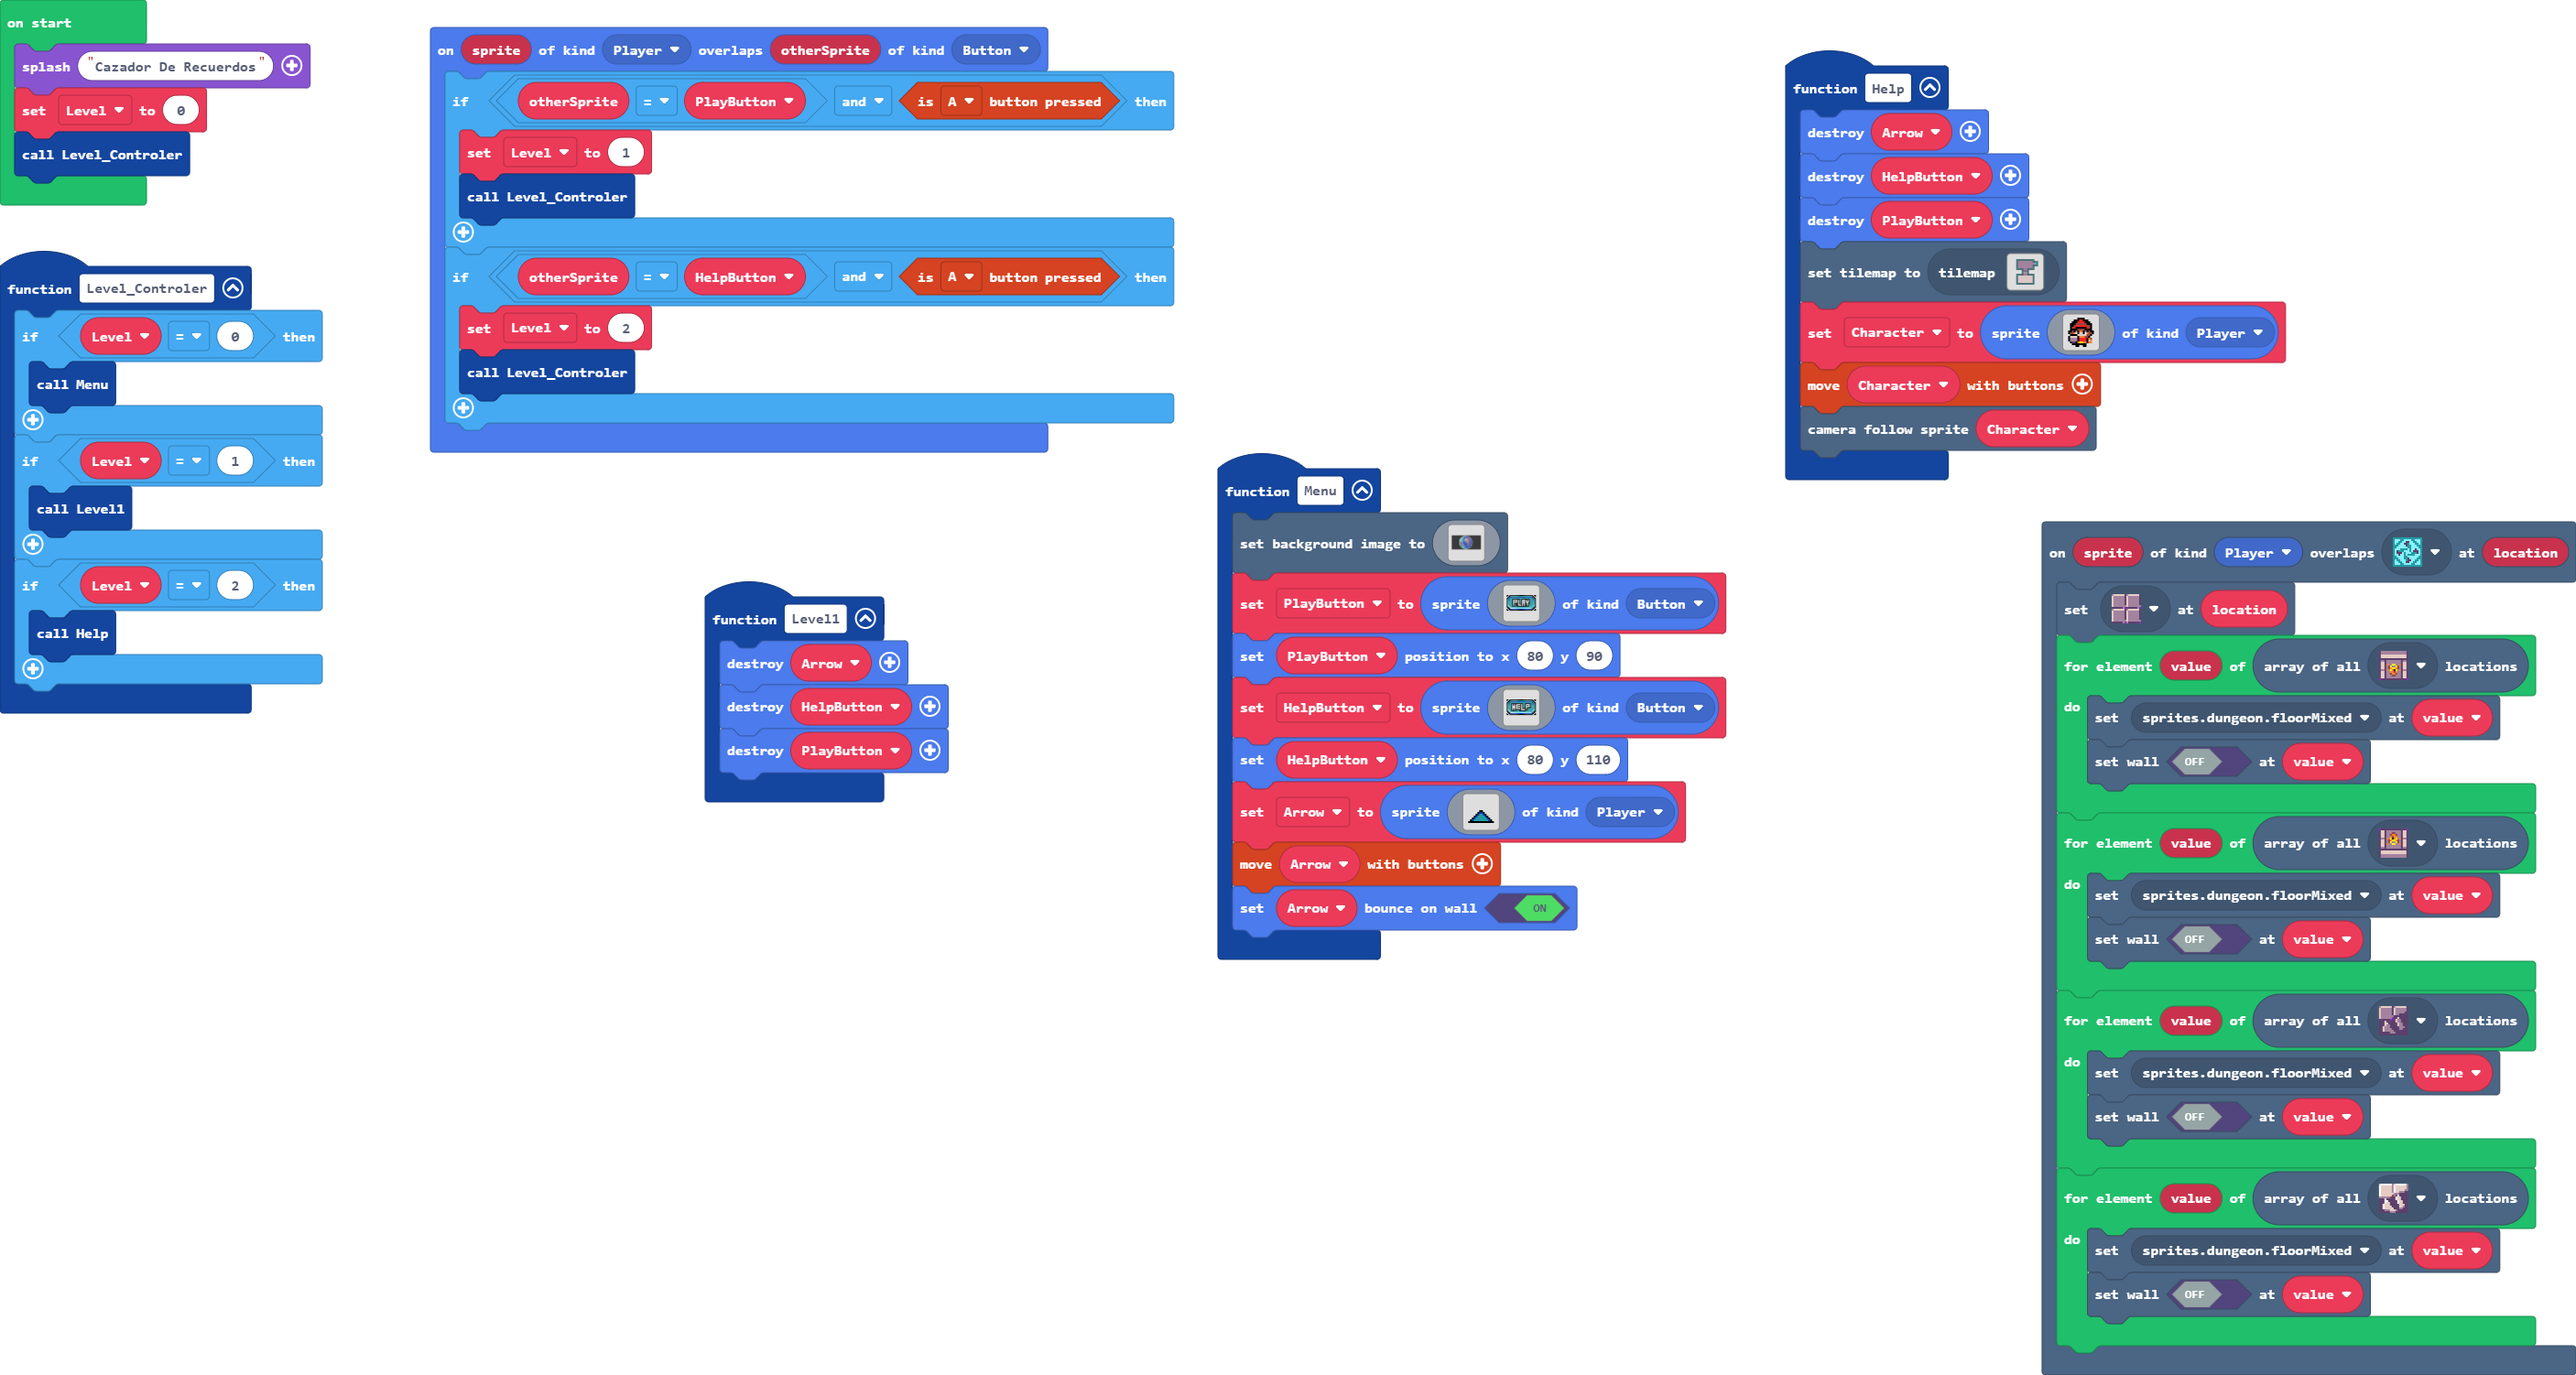
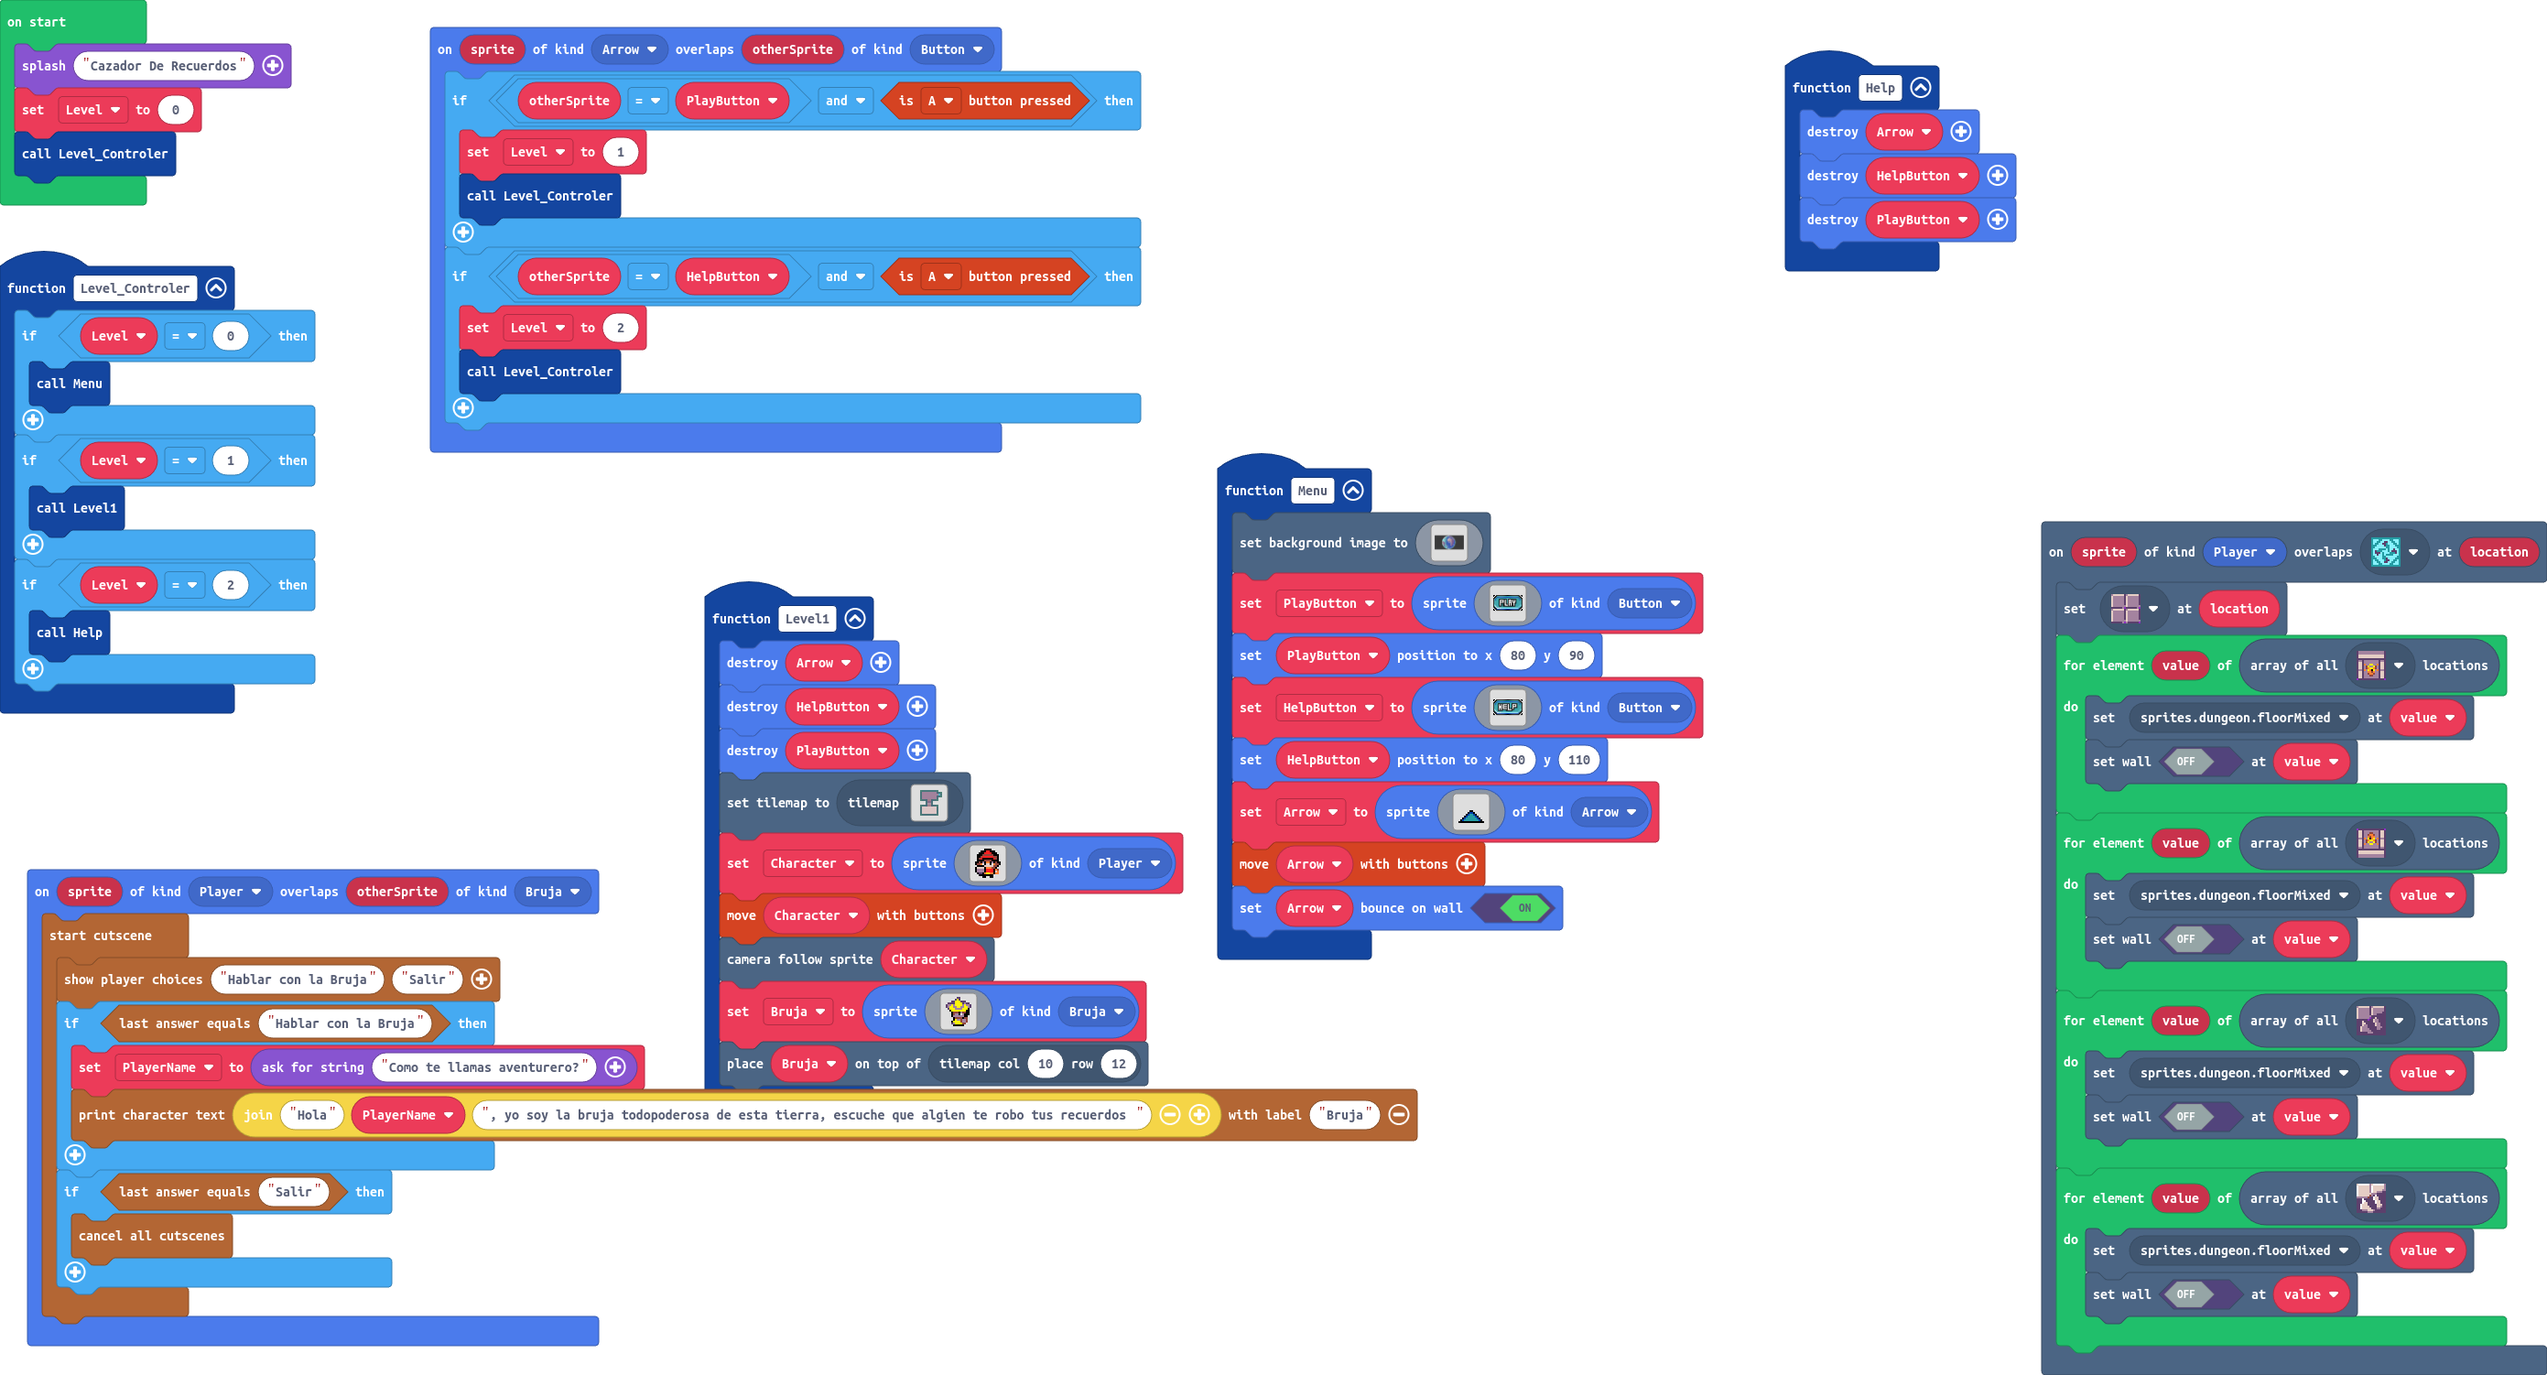
commit

diff --git a/main.ts b/main.ts
@@ -1,6 +1,20 @@
 namespace SpriteKind {
     export const Button = SpriteKind.create()
+    export const Arrow = SpriteKind.create()
+    export const Bruja = SpriteKind.create()
 }
+sprites.onOverlap(SpriteKind.Player, SpriteKind.Bruja, function (sprite, otherSprite) {
+    story.startCutscene(function () {
+        story.showPlayerChoices("Hablar con la Bruja", "Salir")
+        if (story.checkLastAnswer("Hablar con la Bruja")) {
+            PlayerName = game.askForString("Como te llamas aventurero?")
+            story.printCharacterText("Hola" + PlayerName + ", yo soy la bruja todopoderosa de esta tierra, escuche que algien te robo tus recuerdos ", "Bruja")
+        }
+        if (story.checkLastAnswer("Salir")) {
+            story.cancelAllCutscenes()
+        }
+    })
+})
 function Level_Controler () {
     if (Level == 0) {
         Menu()
@@ -13,11 +27,6 @@ function Level_Controler () {
     }
 }
 function Level1 () {
-    sprites.destroy(Arrow)
-    sprites.destroy(HelpButton)
-    sprites.destroy(PlayButton)
-}
-function Help () {
     sprites.destroy(Arrow)
     sprites.destroy(HelpButton)
     sprites.destroy(PlayButton)
@@ -42,8 +51,27 @@ function Help () {
         `, SpriteKind.Player)
     controller.moveSprite(Character)
     scene.cameraFollowSprite(Character)
+    Bruja = sprites.create(img`
+        . . . . . . . c c . . . . . . . 
+        . . . . . . c 5 c . . . . . . . 
+        . . . . c c 5 5 5 c c c . . . . 
+        . . c c c c 5 5 5 5 c b c c . . 
+        . c b b 5 b 5 5 5 5 b 5 b b c . 
+        . c b 5 5 b b 5 5 b b 5 5 b c . 
+        . . c 5 5 5 b b b b 5 5 5 f . . 
+        . . . f 5 5 5 5 5 5 5 5 f f . . 
+        . . . . f e e e f b e e f f . . 
+        . . . . f e b b f 1 b f f f . . 
+        . . . . f b b b b b b f f . . . 
+        . . . . . f e e e e f e e . . . 
+        . . . . . f 5 b b e b b e . . . 
+        . . . . f 5 5 5 5 e b b e . . . 
+        . . . . c b 5 5 5 5 e e . . . . 
+        . . . . . f f f f f f . . . . . 
+        `, SpriteKind.Bruja)
+    tiles.placeOnTile(Bruja, tiles.getTileLocation(10, 12))
 }
-sprites.onOverlap(SpriteKind.Player, SpriteKind.Button, function (sprite, otherSprite) {
+sprites.onOverlap(SpriteKind.Arrow, SpriteKind.Button, function (sprite, otherSprite) {
     if (otherSprite == PlayButton && controller.A.isPressed()) {
         Level = 1
         Level_Controler()
@@ -53,6 +81,11 @@ sprites.onOverlap(SpriteKind.Player, SpriteKind.Button, function (sprite, otherS
         Level_Controler()
     }
 })
+function Help () {
+    sprites.destroy(Arrow)
+    sprites.destroy(HelpButton)
+    sprites.destroy(PlayButton)
+}
 function Menu () {
     scene.setBackgroundImage(img`
         ffffffffffffffffffffffffffffffffffffffffffffffffffffffffffffffffffffffffffffffffffffffffffffffffffffffffffffffffffffffffffffffffffffffffffffffffffffffffffffffff
@@ -186,7 +219,7 @@ function Menu () {
         . f f f f f f f f f f f f f f . 
         . . . . . . . . . . . . . . . . 
         . . . . . . . . . . . . . . . . 
-        `, SpriteKind.Player)
+        `, SpriteKind.Arrow)
     controller.moveSprite(Arrow)
     Arrow.setBounceOnWall(true)
 }
@@ -209,10 +242,12 @@ scene.onOverlapTile(SpriteKind.Player, sprites.dungeon.collectibleInsignia, func
         tiles.setWallAt(value, false)
     }
 })
+let Bruja: Sprite = null
 let Character: Sprite = null
 let PlayButton: Sprite = null
 let HelpButton: Sprite = null
 let Arrow: Sprite = null
+let PlayerName = ""
 let Level = 0
 game.splash("Cazador De Recuerdos")
 Level = 0

diff --git a/tilemap.g.ts b/tilemap.g.ts
@@ -81,6 +81,44 @@ namespace myTiles {
 2 2 2 2 2 2 2 2 2 2 2 2 2 2 2 2 
 2 2 2 2 2 2 2 2 2 2 2 2 2 2 2 2 
 `, [myTiles.transparency16,sprites.dungeon.greenOuterNorthEast,sprites.dungeon.greenOuterSouthEast,sprites.dungeon.greenOuterSouthWest,sprites.dungeon.greenOuterEast0,sprites.dungeon.greenOuterNorthWest,sprites.dungeon.greenOuterNorth0,sprites.dungeon.greenOuterSouth0,sprites.dungeon.greenInnerNorthWest,sprites.dungeon.greenInnerNorthEast,sprites.dungeon.greenInnerSouthWest,sprites.dungeon.greenInnerSouthEast,sprites.dungeon.greenOuterWest1,sprites.dungeon.greenOuterEast1,sprites.dungeon.floorDark0,sprites.dungeon.floorLight0,sprites.dungeon.doorLockedNorth,sprites.dungeon.doorLockedSouth,sprites.dungeon.floorDark3,sprites.dungeon.floorLight3,sprites.dungeon.collectibleInsignia], TileScale.Sixteen);
+            case "level5":
+            case "level5":return tiles.createTilemap(hex`1000100000000000000000000000000000000000000000000000000000000000000000000000000000000000000000000000000000000000000000000000000000000000000000000000000000000000000000000000000000000000000000000000000000000000000000000000000000000000000000000000000000000000000000000000000000000000000000000000000000000000000000000000000000000000000000000000000000000000000000000000000000000000000000000000000000000000000000000000000000000000000000000000000000000000000000000000000000000000000000000000000000000000000000000000000000000000`, img`
+. . . . . . . . . . . . . . . . 
+. . . . . . . . . . . . . . . . 
+. . . . . . . . . . . . . . . . 
+. . . . . . . . . . . . . . . . 
+. . . . . . . . . . . . . . . . 
+. . . . . . . . . . . . . . . . 
+. . . . . . . . . . . . . . . . 
+. . . . . . . . . . . . . . . . 
+. . . . . . . . . . . . . . . . 
+. . . . . . . . . . . . . . . . 
+. . . . . . . . . . . . . . . . 
+. . . . . . . . . . . . . . . . 
+. . . . . . . . . . . . . . . . 
+. . . . . . . . . . . . . . . . 
+. . . . . . . . . . . . . . . . 
+. . . . . . . . . . . . . . . . 
+`, [myTiles.transparency16], TileScale.Sixteen);
+            case "level6":
+            case "level6":return tiles.createTilemap(hex`1000100000000000000000000000000000000000000000000000000000000000000000000000000000000000000000000000000000000000000000000000000000000000000000000000000000000000000000000000000000000000000000000000000000000000000000000000000000000000000000000000000000000000000000000000000000000000000000000000000000000000000000000000000000000000000000000000000000000000000000000000000000000000000000000000000000000000000000000000000000000000000000000000000000000000000000000000000000000000000000000000000000000000000000000000000000000000`, img`
+. . . . . . . . . . . . . . . . 
+. . . . . . . . . . . . . . . . 
+. . . . . . . . . . . . . . . . 
+. . . . . . . . . . . . . . . . 
+. . . . . . . . . . . . . . . . 
+. . . . . . . . . . . . . . . . 
+. . . . . . . . . . . . . . . . 
+. . . . . . . . . . . . . . . . 
+. . . . . . . . . . . . . . . . 
+. . . . . . . . . . . . . . . . 
+. . . . . . . . . . . . . . . . 
+. . . . . . . . . . . . . . . . 
+. . . . . . . . . . . . . . . . 
+. . . . . . . . . . . . . . . . 
+. . . . . . . . . . . . . . . . 
+. . . . . . . . . . . . . . . . 
+`, [myTiles.transparency16], TileScale.Sixteen);
         }
         return null;
     })

diff --git a/main.py b/main.py
@@ -1,6 +1,21 @@
 @namespace
 class SpriteKind:
     Button = SpriteKind.create()
+    Arrow = SpriteKind.create()
+    Bruja = SpriteKind.create()
+
+def on_on_overlap(sprite, otherSprite):
+    
+    def on_start_cutscene():
+        story.show_player_choices("Hablar con la Bruja", "Salir")
+        if story.check_last_answer("Hablar con la Bruja"):
+            story.print_character_text("Hola soy la Bruja")
+        if story.check_last_answer("Salir"):
+            story.cancel_all_cutscenes()
+    story.start_cutscene(on_start_cutscene)
+    
+sprites.on_overlap(SpriteKind.player, SpriteKind.Bruja, on_on_overlap)
+
 def Level_Controler():
     if Level == 0:
         Menu()
@@ -9,12 +24,8 @@ def Level_Controler():
     if Level == 2:
         Help()
 def Level1():
-    sprites.destroy(Arrow)
-    sprites.destroy(HelpButton)
-    sprites.destroy(PlayButton)
-def Help():
-    global Character
-    sprites.destroy(Arrow)
+    global Character, Bruja2
+    sprites.destroy(Arrow2)
     sprites.destroy(HelpButton)
     sprites.destroy(PlayButton)
     tiles.set_current_tilemap(tilemap("""
@@ -41,19 +52,43 @@ def Help():
         SpriteKind.player)
     controller.move_sprite(Character)
     scene.camera_follow_sprite(Character)
+    Bruja2 = sprites.create(img("""
+            . . . . . . . c c . . . . . . . 
+                    . . . . . . c 5 c . . . . . . . 
+                    . . . . c c 5 5 5 c c c . . . . 
+                    . . c c c c 5 5 5 5 c b c c . . 
+                    . c b b 5 b 5 5 5 5 b 5 b b c . 
+                    . c b 5 5 b b 5 5 b b 5 5 b c . 
+                    . . c 5 5 5 b b b b 5 5 5 f . . 
+                    . . . f 5 5 5 5 5 5 5 5 f f . . 
+                    . . . . f e e e f b e e f f . . 
+                    . . . . f e b b f 1 b f f f . . 
+                    . . . . f b b b b b b f f . . . 
+                    . . . . . f e e e e f e e . . . 
+                    . . . . . f 5 b b e b b e . . . 
+                    . . . . f 5 5 5 5 e b b e . . . 
+                    . . . . c b 5 5 5 5 e e . . . . 
+                    . . . . . f f f f f f . . . . .
+        """),
+        SpriteKind.Bruja)
+    tiles.place_on_tile(Bruja2, tiles.get_tile_location(10, 12))
 
-def on_on_overlap(sprite, otherSprite):
+def on_on_overlap2(sprite2, otherSprite2):
     global Level
-    if otherSprite == PlayButton and controller.A.is_pressed():
+    if otherSprite2 == PlayButton and controller.A.is_pressed():
         Level = 1
         Level_Controler()
-    if otherSprite == HelpButton and controller.A.is_pressed():
+    if otherSprite2 == HelpButton and controller.A.is_pressed():
         Level = 2
         Level_Controler()
-sprites.on_overlap(SpriteKind.player, SpriteKind.Button, on_on_overlap)
+sprites.on_overlap(SpriteKind.Arrow, SpriteKind.Button, on_on_overlap2)
 
+def Help():
+    sprites.destroy(Arrow2)
+    sprites.destroy(HelpButton)
+    sprites.destroy(PlayButton)
 def Menu():
-    global PlayButton, HelpButton, Arrow
+    global PlayButton, HelpButton, Arrow2
     scene.set_background_image(img("""
         ffffffffffffffffffffffffffffffffffffffffffffffffffffffffffffffffffffffffffffffffffffffffffffffffffffffffffffffffffffffffffffffffffffffffffffffffffffffffffffffff
[1 lines of base64/hex data omitted]
@@ -171,7 +206,7 @@ def Menu():
         """),
         SpriteKind.Button)
     HelpButton.set_position(80, 110)
-    Arrow = sprites.create(img("""
+    Arrow2 = sprites.create(img("""
             . . . . . . . . . . . . . . . . 
                     . . . . . . . . . . . . . . . . 
                     . . . . . . . . . . . . . . . . 
@@ -189,11 +224,11 @@ def Menu():
                     . . . . . . . . . . . . . . . . 
                     . . . . . . . . . . . . . . . .
         """),
-        SpriteKind.player)
-    controller.move_sprite(Arrow)
-    Arrow.set_bounce_on_wall(True)
+        SpriteKind.Arrow)
+    controller.move_sprite(Arrow2)
+    Arrow2.set_bounce_on_wall(True)
 
-def on_overlap_tile(sprite2, location):
+def on_overlap_tile(sprite3, location):
     tiles.set_tile_at(location, sprites.dungeon.floor_dark0)
     for value in tiles.get_tiles_by_type(sprites.dungeon.door_locked_north):
         tiles.set_tile_at(value, sprites.dungeon.floor_mixed)
@@ -211,10 +246,11 @@ scene.on_overlap_tile(SpriteKind.player,
     sprites.dungeon.collectible_insignia,
     on_overlap_tile)
 
+Bruja2: Sprite = None
 Character: Sprite = None
 PlayButton: Sprite = None
 HelpButton: Sprite = None
-Arrow: Sprite = None
+Arrow2: Sprite = None
 Level = 0
 game.splash("Cazador De Recuerdos")
 Level = 0
